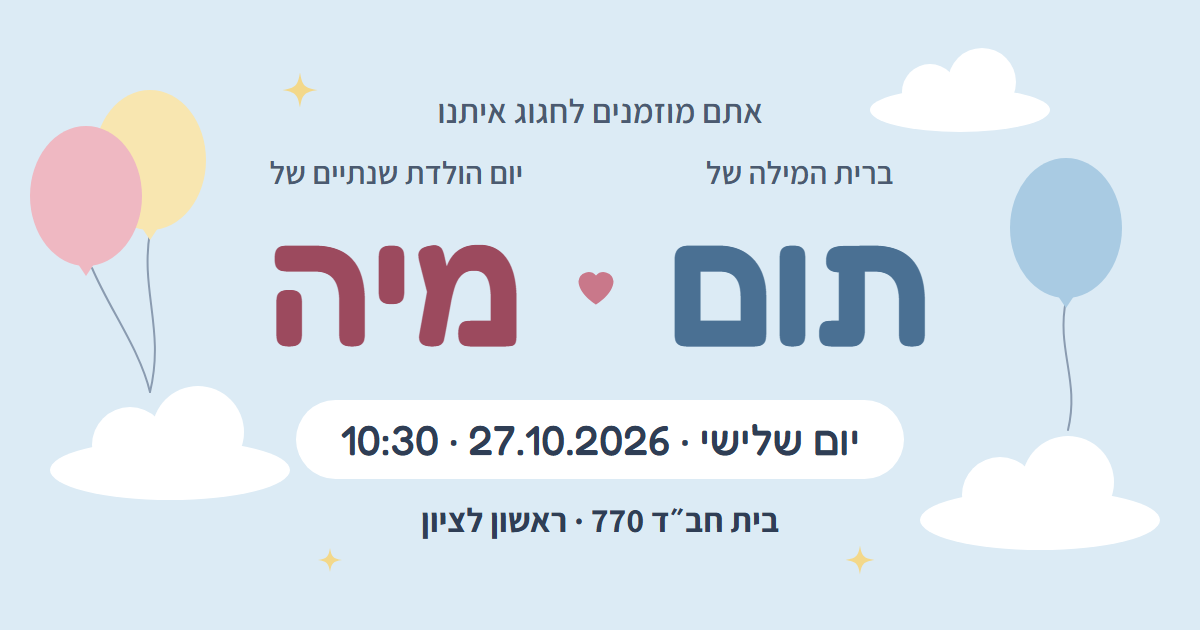
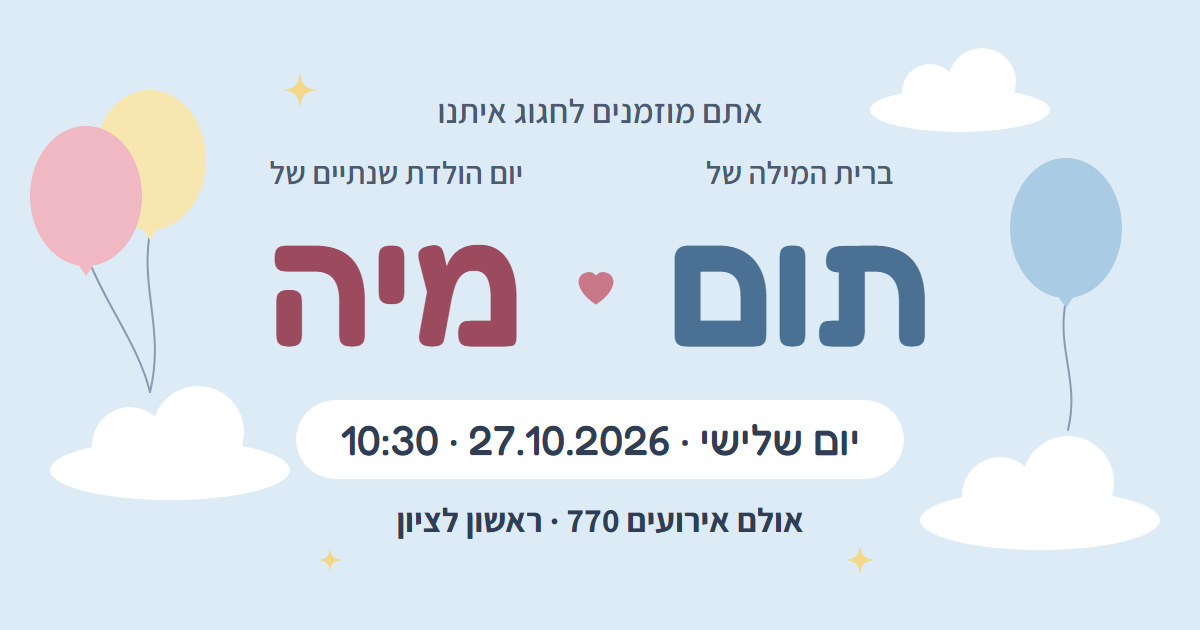
Venue is now 'Event Hall 770'; gift dialog can open bit / PayBox directly
- All venue mentions renamed; parking text points to the red-brick 'Brooklyn 770' building
- Gift dialog: 'open app' button via the apps' own universal-link domains
  (bitpay.page.link, links.payboxapp.com); Android uses an intent URL with Play Store fallback;
  desktop keeps the manual instructions. A personal payment link in config still takes precedence.
- Regenerated the WhatsApp preview image

Changed region(s): [[0.3083, 0.7841, 0.6783, 0.8444]]

diff --git a/tests/e2e/run.js b/tests/e2e/run.js
@@ -160,6 +160,9 @@ async function functional(browser) {
 
   // תאריכים
   const dates = await page.evaluate(() => ({ pill: document.querySelector('.date-pill').textContent, deadline: document.querySelector('.hero-deadline').textContent }));
+  const venue = await page.evaluate(() => ({ hero: document.querySelector('.hero-where').textContent, card: document.querySelector('[data-i18n="dir.venue"]').textContent, park: document.querySelector('[data-i18n="park.2"]').textContent, all: document.body.textContent }));
+  check(G, 'שם המקום: "אולם אירועים 770", החניה: "בניין הלבנים האדומות – ברוקלין 770", ואין "בית חב״ד" באתר',
+    venue.hero === 'אולם אירועים 770 · ראשון לציון' && venue.card === 'אולם אירועים 770' && venue.park.includes('בניין הלבנים האדומות – ברוקלין 770') && !/חב״ד|Chabad/.test(venue.all), [venue.hero, venue.card]);
   check(G, 'תאריך האירוע והדדליין מוצגים נכון', dates.pill === 'יום שלישי · 27.10.2026 · 10:30' && dates.deadline.includes('יום שלישי, 20.10'), dates);
 
   check(G, 'לו"ז: 10:30 הגעה והתכנסות', (await page.$eval('.schedule li', (li) => li.textContent)).includes('הגעה והתכנסות'));
@@ -175,7 +178,7 @@ async function functional(browser) {
   check(G, 'קישור Google Maps עם הכתובת', links.gmaps.includes('destination=מרדכי יואל סגל 3, ראשון לציון'), links.gmaps);
   check(G, 'מפה מוטמעת עם הכתובת', links.map.includes('מרדכי יואל סגל 3') && links.map.includes('output=embed'), links.map);
   check(G, 'קישור וואטסאפ למספר הנכון', links.wa.startsWith('https://wa.me/972549488882?text='), links.wa.slice(0, 60));
-  check(G, 'יומן Google: תאריך ושעה נכונים (UTC)', links.gcal.includes('dates=20261027T083000Z/20261027T110000Z') && links.gcal.includes('בית חב״ד 770'), links.gcal.slice(0, 200));
+  check(G, 'יומן Google: תאריך ושעה נכונים (UTC)', links.gcal.includes('dates=20261027T083000Z/20261027T110000Z') && links.gcal.includes('אולם אירועים 770'), links.gcal.slice(0, 200));
   check(G, 'קישורים חיצוניים עם rel=noopener', links.blank);
   const ics = await page.evaluate(async (u) => (await fetch(u)).text(), links.ics);
   check(G, 'קובץ היומן (ICS) תקין', /BEGIN:VEVENT/.test(ics) && ics.includes('DTSTART:20261027T083000Z') && ics.includes('DTEND:20261027T110000Z') && ics.includes('\r\n') && /END:VCALENDAR\s*$/.test(ics));
@@ -209,11 +212,14 @@ async function functional(browser) {
   let gd = await page.evaluate(() => ({ open: document.querySelector('#gift-dialog').open, title: document.querySelector('#gift-dialog-title').textContent, step1: document.querySelector('#gd-step1').textContent,
     copied: getComputedStyle(document.querySelector('.dialog-copied')).visibility, num: document.querySelector('#gift-dialog .phone-num').textContent, openBtnHidden: document.querySelector('#gd-open').hidden }));
   check(G, 'bit: החלון נפתח עם הכותרת והמספר', gd.open && gd.title.includes('bit') && gd.step1.includes('bit') && gd.num === '054-948-8882', gd);
+  const openBtn = await page.evaluate(() => ({ hidden: document.querySelector('#gd-open').hidden, href: document.querySelector('#gd-open').getAttribute('href'), text: document.querySelector('#gd-open').textContent, note: !document.querySelector('#gd-open-note').hidden }));
+  check(G, 'bit באייפון: כפתור "פתיחת bit" עם הקישור האוניברסלי של האפליקציה', !openBtn.hidden && openBtn.href === 'https://bitpay.page.link/open' && openBtn.text === 'פתיחת bit' && openBtn.note && gd.step1.includes('פתיחת bit'), openBtn);
   check(G, 'bit: המספר הועתק אוטומטית', gd.copied === 'visible' && await page.evaluate(() => navigator.clipboard.readText()) === '0549488882', gd.copied);
   await shot(page, 'gift-dialog-phone-he', false);
   await page.click('#gd-cancel'); await sleep(200);
   check(G, '"אולי אחר כך" סוגר בלי לעבור מסך', !(await page.$eval('#gift-dialog', (d) => d.open)) && (await hash(page)) === '');
   await page.click('[data-gift="paybox"]'); await sleep(400);
+  check(G, 'PayBox באייפון: הכפתור מצביע על links.payboxapp.com', (await page.$eval('#gd-open', (e) => e.getAttribute('href'))) === 'https://links.payboxapp.com/open');
   check(G, 'PayBox: הכותרת מתחלפת', (await page.$eval('#gift-dialog-title', (e) => e.textContent)).includes('PayBox'));
   await page.keyboard.press('Escape'); await sleep(200);
   check(G, 'Escape סוגר את החלון', !(await page.$eval('#gift-dialog', (d) => d.open)));
@@ -226,6 +232,29 @@ async function functional(browser) {
   check(G, 'מסך תודה-מתנה: הגרסה הנכונה, רקע ורוד, פוקוס על הכותרת', tg.gift && tg.others && tg.pink && tg.focus === 'H1', tg);
   check(G, 'מי שלא אישר הגעה רואה "עוד לא אישרתם הגעה?"', tg.toRsvp);
   await shot(page, 'thanks-gift-phone-he', false);
+
+  // אנדרואיד ומחשב: קישור intent / בלי כפתור
+  {
+    const ap = await browser.newPage();
+    await ap.setViewport(DEVICES['phone-375']);
+    await ap.setUserAgent('Mozilla/5.0 (Linux; Android 14; Pixel 8) AppleWebKit/537.36 (KHTML, like Gecko) Chrome/126.0 Mobile Safari/537.36');
+    await ap.goto(BASE + '?lang=he', { waitUntil: 'networkidle2' });
+    await ap.evaluate(() => document.querySelector('[data-gift="bit"]').click()); await sleep(300);
+    const bitHref = await ap.$eval('#gd-open', (e) => e.getAttribute('href'));
+    await ap.evaluate(() => { document.querySelector('#gd-cancel').click(); document.querySelector('[data-gift="paybox"]').click(); }); await sleep(300);
+    const pbHref = await ap.$eval('#gd-open', (e) => e.getAttribute('href'));
+    check(G, 'אנדרואיד: קישורי intent עם שם החבילה וגיבוי לחנות',
+      bitHref.startsWith('intent://bitpay.page.link/open#Intent;scheme=https;package=com.bnhp.payments.paymentsapp;S.browser_fallback_url=') && bitHref.endsWith(';end') &&
+      pbHref.startsWith('intent://links.payboxapp.com/open#Intent;scheme=https;package=com.payboxapp;'), [bitHref, pbHref]);
+    await ap.close();
+    const dp = await browser.newPage();
+    await dp.setViewport(DEVICES['desktop-1366']);
+    await dp.goto(BASE + '?lang=he', { waitUntil: 'networkidle2' });
+    await dp.evaluate(() => document.querySelector('[data-gift="bit"]').click()); await sleep(300);
+    const desk = await dp.evaluate(() => ({ btn: document.querySelector('#gd-open').hidden, note: document.querySelector('#gd-open-note').hidden, step1: document.querySelector('#gd-step1').textContent }));
+    check(G, 'מחשב: אין כפתור פתיחת אפליקציה, ההוראות נשארות ידניות', desk.btn && desk.note && desk.step1 === 'פתחו את אפליקציית bit', desk);
+    await dp.close();
+  }
 
   // ניווט
   G = 'functional navigation';

diff --git a/index.html b/index.html
@@ -4,16 +4,16 @@
 <meta charset="utf-8">
 <meta name="viewport" content="width=device-width, initial-scale=1, viewport-fit=cover">
 <title>הברית של תום ויום ההולדת של מיה · 27.10.2026</title>
-<meta name="description" content="יום שלישי, 27.10.2026 בשעה 10:30 · בית חב״ד 770, ראשון לציון. לחצו לפרטים ולאישור הגעה.">
+<meta name="description" content="יום שלישי, 27.10.2026 בשעה 10:30 · אולם אירועים 770, ראשון לציון. לחצו לפרטים ולאישור הגעה.">
 <meta name="robots" content="noindex, nofollow">
 <meta name="theme-color" content="#DCEBF5">
 
 <meta property="og:type" content="website">
 <meta property="og:locale" content="he_IL">
 <meta property="og:title" content="הברית של תום ויום הולדת שנתיים למיה">
-<meta property="og:description" content="יום שלישי, 27.10.2026 בשעה 10:30 · בית חב״ד 770, ראשון לציון. לחצו לפרטים ולאישור הגעה.">
+<meta property="og:description" content="יום שלישי, 27.10.2026 בשעה 10:30 · אולם אירועים 770, ראשון לציון. לחצו לפרטים ולאישור הגעה.">
 <meta property="og:url" content="https://alonkremer.github.io/tom-and-mia/">
-<meta property="og:image" content="https://alonkremer.github.io/tom-and-mia/images/og.png">
+<meta property="og:image" content="https://alonkremer.github.io/tom-and-mia/images/og.png?v=2">
 <meta property="og:image:width" content="1200">
 <meta property="og:image:height" content="630">
 <meta name="twitter:card" content="summary_large_image">
@@ -95,7 +95,7 @@
 
     <div class="hero-when">
       <div class="date-pill" data-i18n="hero.date">יום שלישי · 27.10.2026 · 10:30</div>
-      <div class="hero-where" data-i18n="hero.where">בית חב״ד 770 · ראשון לציון</div>
+      <div class="hero-where" data-i18n="hero.where">אולם אירועים 770 · ראשון לציון</div>
     </div>
 
     <a href="#rsvp" id="hero-cta" class="btn btn-primary btn-lg">
@@ -183,7 +183,7 @@
     <div class="note-card">
       <span class="badge badge-blue"><svg class="icon" aria-hidden="true"><use href="#i-pin"/></svg></span>
       <div>
-        <h3 class="plain" data-i18n="dir.venue">בית חב״ד 770</h3>
+        <h3 class="plain" data-i18n="dir.venue">אולם אירועים 770</h3>
         <p data-i18n="dir.address">מרדכי יואל סגל 3, ראשון לציון</p>
       </div>
     </div>
@@ -200,8 +200,8 @@
       <span class="badge badge-mint"><svg class="icon" aria-hidden="true"><use href="#i-parking"/></svg></span>
       <div>
         <h3 data-i18n="park.title">איפה חונים</h3>
-        <p data-i18n="park.1">במגרש החניה של סופר ויקטורי, צמוד לבית חב״ד.</p>
-        <p class="strong" data-i18n="park.2">שימו לב: הכניסה לחניה היא מרחוב יואל סגל בלבד, ממש ליד בית חב״ד. אין כניסה מרחוב צבי פרנק.</p>
+        <p data-i18n="park.1">במגרש החניה של סופר ויקטורי, צמוד לאולם.</p>
+        <p class="strong" data-i18n="park.2">שימו לב: הכניסה לחניה היא מרחוב יואל סגל בלבד, ממש ליד בניין הלבנים האדומות – ברוקלין 770. אין כניסה מרחוב צבי פרנק.</p>
         <p data-i18n="park.3">אפשר גם לחנות ברחובות הסמוכים.</p>
       </div>
     </div>
@@ -308,7 +308,7 @@
     <span class="thanks-icon ti-green"><svg class="icon" aria-hidden="true"><use href="#i-check"/></svg></span>
     <h1 tabindex="-1" data-i18n="ty.yes.title">תודה רבה!</h1>
     <p class="thanks-sub" data-i18n="ty.yes.sub">אישור ההגעה שלכם נקלט</p>
-    <p data-i18n="ty.yes.body">אנחנו כל כך מתרגשים לחגוג איתכם את הברית של תום ואת יום ההולדת של מיה. נתראה ביום שלישי, 27.10, ב‑10:30 בבית חב״ד 770 בראשון לציון.</p>
+    <p data-i18n="ty.yes.body">אנחנו כל כך מתרגשים לחגוג איתכם את הברית של תום ואת יום ההולדת של מיה. נתראה ביום שלישי, 27.10, ב‑10:30 באולם אירועים 770 בראשון לציון.</p>
     <p class="strong" data-i18n="ty.sign">באהבה, אלון, הדר, מיה ותום</p>
     <div class="thanks-actions">
       <a class="btn btn-primary btn-lg btn-block" href="event.ics"><svg class="icon" aria-hidden="true"><use href="#i-calendar"/></svg><span data-i18n="cal.add">הוספה ליומן</span></a>
@@ -357,10 +357,11 @@
   <p class="phone-num big" dir="ltr" data-fill="phone">054-948-8882</p>
   <ol class="dialog-steps">
     <li id="gd-step1"></li>
-    <li data-i18n="gd.step2">בחרו ״העברה״ והדביקו את המספר</li>
+    <li data-i18n="gd.step2">באפליקציה: בחרו ״העברה״ והדביקו את המספר</li>
     <li data-i18n="gd.step3">חזרו לכאן ולחצו ״העברתי״</li>
   </ol>
-  <a class="btn btn-outline btn-block" id="gd-open" href="#" target="_blank" rel="noopener" hidden></a>
+  <a class="btn btn-dark btn-lg btn-block" id="gd-open" href="#" rel="noopener" hidden></a>
+  <p class="dialog-note" id="gd-open-note" hidden data-i18n="gd.openNote">האפליקציה לא נפתחה? פתחו אותה ידנית – המספר כבר הועתק.</p>
   <button type="button" class="btn btn-primary btn-lg btn-block" id="gd-done"><svg class="icon" aria-hidden="true"><use href="#i-check"/></svg><span data-i18n="gd.done">העברתי</span></button>
   <button type="button" class="btn btn-text btn-block" id="gd-cancel" data-i18n="gd.cancel">אולי אחר כך</button>
 </dialog>

diff --git a/js/i18n.js b/js/i18n.js
@@ -5,7 +5,7 @@ window.I18N = {
     'hero.date': '{weekday} · {date} · {time}',
     'hero.deadline': 'גם אם לא תוכלו להגיע – נשמח לתשובה עד {deadline}',
     'rsvp.sub': 'הברית של תום ויום ההולדת של מיה · {date}',
-    'ty.yes.body': 'אנחנו כל כך מתרגשים לחגוג איתכם את הברית של תום ואת יום ההולדת של מיה. נתראה ב{dayDate}, ב‑{time} בבית חב״ד 770 בראשון לציון.',
+    'ty.yes.body': 'אנחנו כל כך מתרגשים לחגוג איתכם את הברית של תום ואת יום ההולדת של מיה. נתראה ב{dayDate}, ב‑{time} באולם אירועים 770 בראשון לציון.',
     'ty.gift.body': 'תודה שאתם חלק מהשמחה הכפולה שלנו. תום ומיה בני מזל שיש להם אתכם, ואנחנו כבר מחכים לחגוג יחד ב{dayDate}.',
 
     'js.title': 'הברית של תום ויום ההולדת של מיה · {date}',
@@ -16,7 +16,9 @@ window.I18N = {
     'js.gd.title.bit': 'מתנה ב‑bit',
     'js.gd.title.paybox': 'מתנה ב‑PayBox',
     'js.gd.step1.bit': 'פתחו את אפליקציית bit',
+    'js.gd.step1.bit.tap': 'לחצו על ״פתיחת bit״',
     'js.gd.step1.paybox': 'פתחו את אפליקציית PayBox',
+    'js.gd.step1.paybox.tap': 'לחצו על ״פתיחת PayBox״',
     'js.gd.open.bit': 'פתיחת bit',
     'js.gd.open.paybox': 'פתיחת PayBox',
     'js.switchLang': 'Switch to English',
@@ -44,7 +46,7 @@ window.I18N = {
     'hero.miaLabel': 'The 2nd birthday of',
     'hero.mia': 'Mia',
     'hero.date': '{weekday} · {date} · {time}',
-    'hero.where': 'Chabad House 770 · Rishon LeZion',
+    'hero.where': 'Event Hall 770 · Rishon LeZion',
     'hero.deadline': 'Even if you can’t make it, please reply by {deadline}',
     'cta.rsvp': 'Coming? Let us know',
     'count.title': 'In',
@@ -64,12 +66,12 @@ window.I18N = {
     'vote.title': 'Election day = a day off',
     'vote.body': 'The event takes place on Knesset election day, so everyone is off work and public transport runs as usual. Just don’t forget to vote, before or after.',
     'dir.title': 'Getting there',
-    'dir.venue': 'Chabad House 770',
+    'dir.venue': 'Event Hall 770',
     'dir.address': 'Mordechai Yoel Segal St 3, Rishon LeZion',
     'dir.waze': 'Open in Waze',
     'park.title': 'Parking',
-    'park.1': 'Park at the Victory supermarket lot, right next to the Chabad House.',
-    'park.2': 'Please note: the parking entrance is from Yoel Segal St only, right beside the Chabad House. There is no entrance from Zvi Frank St.',
+    'park.1': 'Park at the Victory supermarket lot, right next to the hall.',
+    'park.2': 'Please note: the parking entrance is from Yoel Segal St only, right beside the red-brick “Brooklyn 770” building. There is no entrance from Zvi Frank St.',
     'park.3': 'Street parking nearby is also available.',
     'gift.title': 'Want to send a gift?',
     'gift.body': 'Your presence is the greatest gift. For those who still wish to, it’s easy from your phone:',
@@ -112,7 +114,7 @@ window.I18N = {
     'rsvp.hint': 'Plans changed? Just fill in the form again and we’ll update.',
     'ty.yes.title': 'Thank you!',
     'ty.yes.sub': 'Your RSVP has been received',
-    'ty.yes.body': 'We are so excited to celebrate Tom’s Brit and Mia’s birthday with you. See you on {dayDate} at {time}, at Chabad House 770 in Rishon LeZion.',
+    'ty.yes.body': 'We are so excited to celebrate Tom’s Brit and Mia’s birthday with you. See you on {dayDate} at {time}, at Event Hall 770 in Rishon LeZion.',
     'ty.sign': 'With love, Alon, Hadar, Mia & Tom',
     'ty.backDir': 'Back to the invitation & directions',
     'ty.no.title': 'Thanks for letting us know',
@@ -123,7 +125,8 @@ window.I18N = {
     'ty.gift.body': 'Thank you for being part of our double celebration. Tom and Mia are lucky to have you, and we can’t wait to celebrate together on {dayDate}.',
     'ty.gift.toRsvp': 'Haven’t RSVP’d yet? Do it now',
     'gd.copied': 'Number copied',
-    'gd.step2': 'Choose “Transfer” and paste the number',
+    'gd.step2': 'In the app: choose “Transfer” and paste the number',
+    'gd.openNote': 'App didn’t open? Open it manually – the number is already copied.',
     'gd.step3': 'Come back here and tap “Done”',
     'gd.done': 'Done',
     'gd.cancel': 'Maybe later',
@@ -136,7 +139,9 @@ window.I18N = {
     'js.gd.title.bit': 'Gift via bit',
     'js.gd.title.paybox': 'Gift via PayBox',
     'js.gd.step1.bit': 'Open the bit app',
+    'js.gd.step1.bit.tap': 'Tap “Open bit”',
     'js.gd.step1.paybox': 'Open the PayBox app',
+    'js.gd.step1.paybox.tap': 'Tap “Open PayBox”',
     'js.gd.open.bit': 'Open bit',
     'js.gd.open.paybox': 'Open PayBox',
     'js.switchLang': 'מעבר לעברית',

diff --git a/js/app.js b/js/app.js
@@ -414,6 +414,27 @@
     return ok;
   }
 
+  // דומיינים של "קישורים אוניברסליים" שהאפליקציות עצמן רשמו (apple-app-site-association / assetlinks.json):
+  // לחיצה על קישור כזה פותחת את האפליקציה אם היא מותקנת. package = מזהה האפליקציה באנדרואיד.
+  var PAY_APPS = {
+    bit: { url: 'https://bitpay.page.link/open', pkg: 'com.bnhp.payments.paymentsapp' },
+    paybox: { url: 'https://links.payboxapp.com/open', pkg: 'com.payboxapp' }
+  };
+
+  function appLink(app) {
+    var personal = app === 'bit' ? cfg.bitLink : cfg.payboxLink;
+    if (personal) return personal;
+    var ua = navigator.userAgent;
+    var target = PAY_APPS[app];
+    if (/Android/i.test(ua)) {
+      // intent: פותח ישירות את האפליקציה; אם היא לא מותקנת – עובר לחנות
+      return 'intent://' + target.url.replace('https://', '') + '#Intent;scheme=https;package=' + target.pkg +
+        ';S.browser_fallback_url=' + encodeURIComponent('https://play.google.com/store/apps/details?id=' + target.pkg) + ';end';
+    }
+    if (/iPhone|iPad|iPod/i.test(ua)) return target.url;
+    return ''; // במחשב אין אפליקציה לפתוח
+  }
+
   function initGift() {
     var dlg = $('#gift-dialog');
 
@@ -426,10 +447,15 @@
         var app = btn.getAttribute('data-gift');
         $('#gift-dialog-title').textContent = t('js.gd.title.' + app);
         $('#gd-step1').textContent = t('js.gd.step1.' + app);
-        var link = app === 'bit' ? cfg.bitLink : cfg.payboxLink;
+        var link = appLink(app);
         var open = $('#gd-open');
         open.hidden = !link;
-        if (link) { open.href = link; open.textContent = t('js.gd.open.' + app); }
+        $('#gd-open-note').hidden = !link;
+        if (link) {
+          open.href = link;
+          open.textContent = t('js.gd.open.' + app);
+          $('#gd-step1').textContent = t('js.gd.step1.' + app + '.tap');
+        }
         $('.dialog-copied').style.visibility = 'hidden';
         if (dlg.showModal) dlg.showModal(); else dlg.setAttribute('open', '');
         copyPhone().then(function (ok) { $('.dialog-copied').style.visibility = ok ? 'visible' : 'hidden'; });

diff --git a/js/config.js b/js/config.js
@@ -20,7 +20,7 @@ window.EVENT_CONFIG = {
   phoneIntl: '972549488882',
 
   // מקום
-  venueName: 'בית חב״ד 770',
+  venueName: 'אולם אירועים 770',
   address: 'מרדכי יואל סגל 3, ראשון לציון',
 
   // 4 התמונות, לפי המיקום שלהן באתר (שם הקובץ = המיקום).
@@ -34,7 +34,8 @@ window.EVENT_CONFIG = {
   ],
   photoFocus: ['50% 35%', '55% 25%', '45% 25%', '50% 40%'],
 
-  // אופציונלי: קישורי תשלום אישיים מתוך האפליקציות (אם יוצרים כאלה). ריק = רק העתקת מספר.
+  // אופציונלי: קישורי תשלום אישיים (למשל הכתובת שמקודדת ב-QR האישי של bit). כשיש קישור – הכפתור בחלון המתנה
+  // פותח את האפליקציה ישר על מסך התשלום. ריק = הכפתור רק פותח את האפליקציה (בטלפונים), והמספר מועתק ללוח.
   bitLink: '',
   payboxLink: ''
 };

diff --git a/css/style.css b/css/style.css
@@ -431,6 +431,7 @@ input[type="text"], input[type="tel"], textarea { min-height: 62px; font-size: 2
 /* חלונות קופצים ומסכי תודה */
 dialog h2 { font-size: 32px; }
 .dialog-copied { font-size: 22px; }
+.dialog-note { font-size: 21px; line-height: 1.3; color: var(--ink-soft); }
 .dialog-steps li { font-size: var(--t-label); gap: 12px; }
 .dialog-steps li::before { width: 36px; height: 36px; font-size: 21px; }
 .confirm-num { font-size: 52px; }

diff --git a/tools/og.html b/tools/og.html
@@ -46,6 +46,6 @@
   <div class="col"><span class="label">יום הולדת שנתיים של</span><span class="name mia">מיה</span></div>
 </div>
 <div class="pill">יום שלישי · 27.10.2026 · 10:30</div>
-<div class="where">בית חב״ד 770 · ראשון לציון</div>
+<div class="where">אולם אירועים 770 · ראשון לציון</div>
 </body>
 </html>
